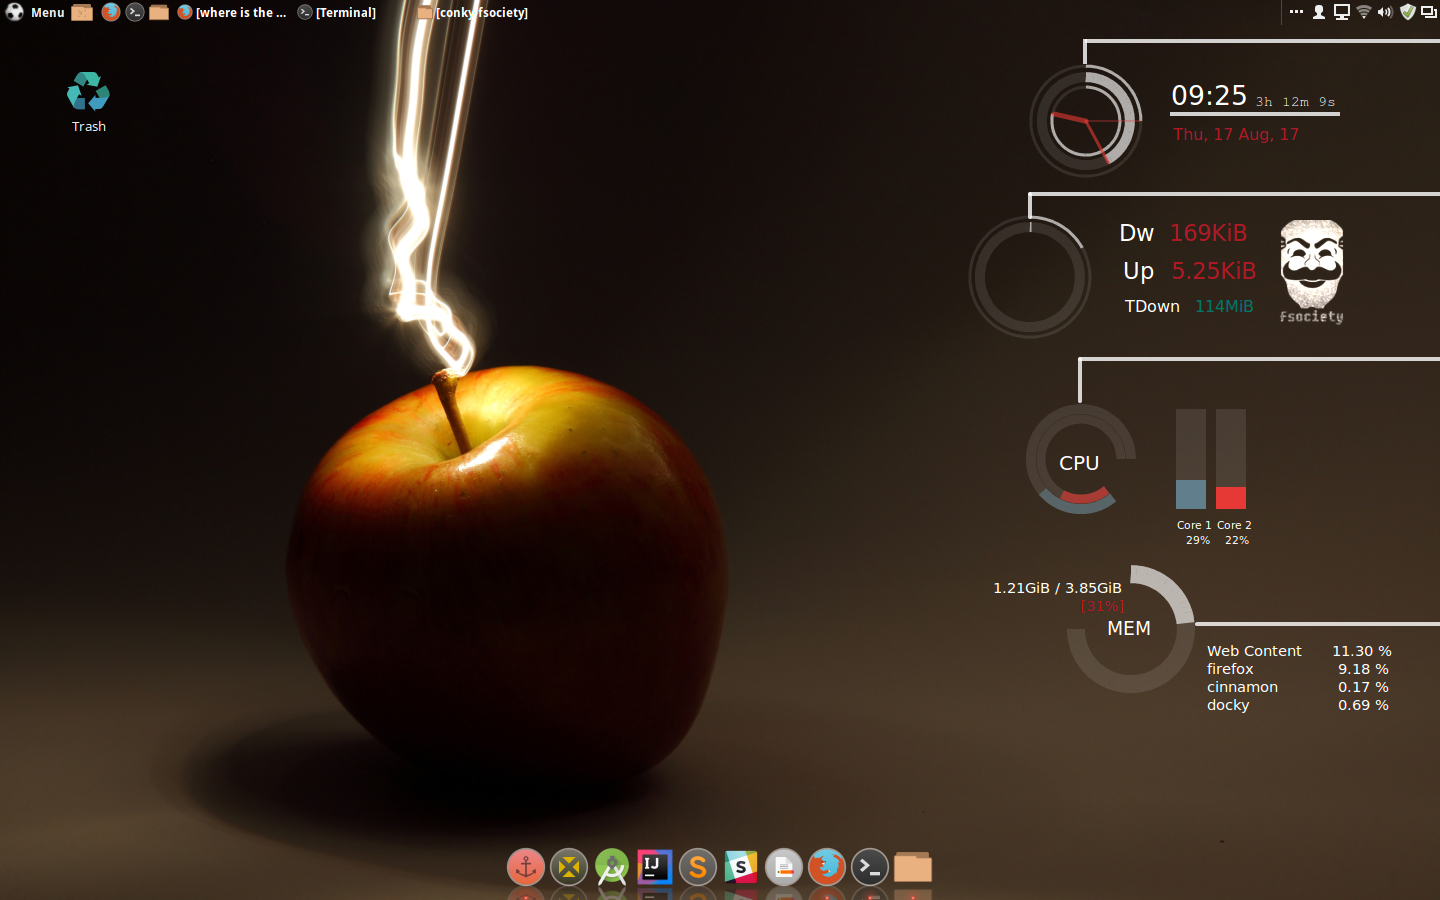
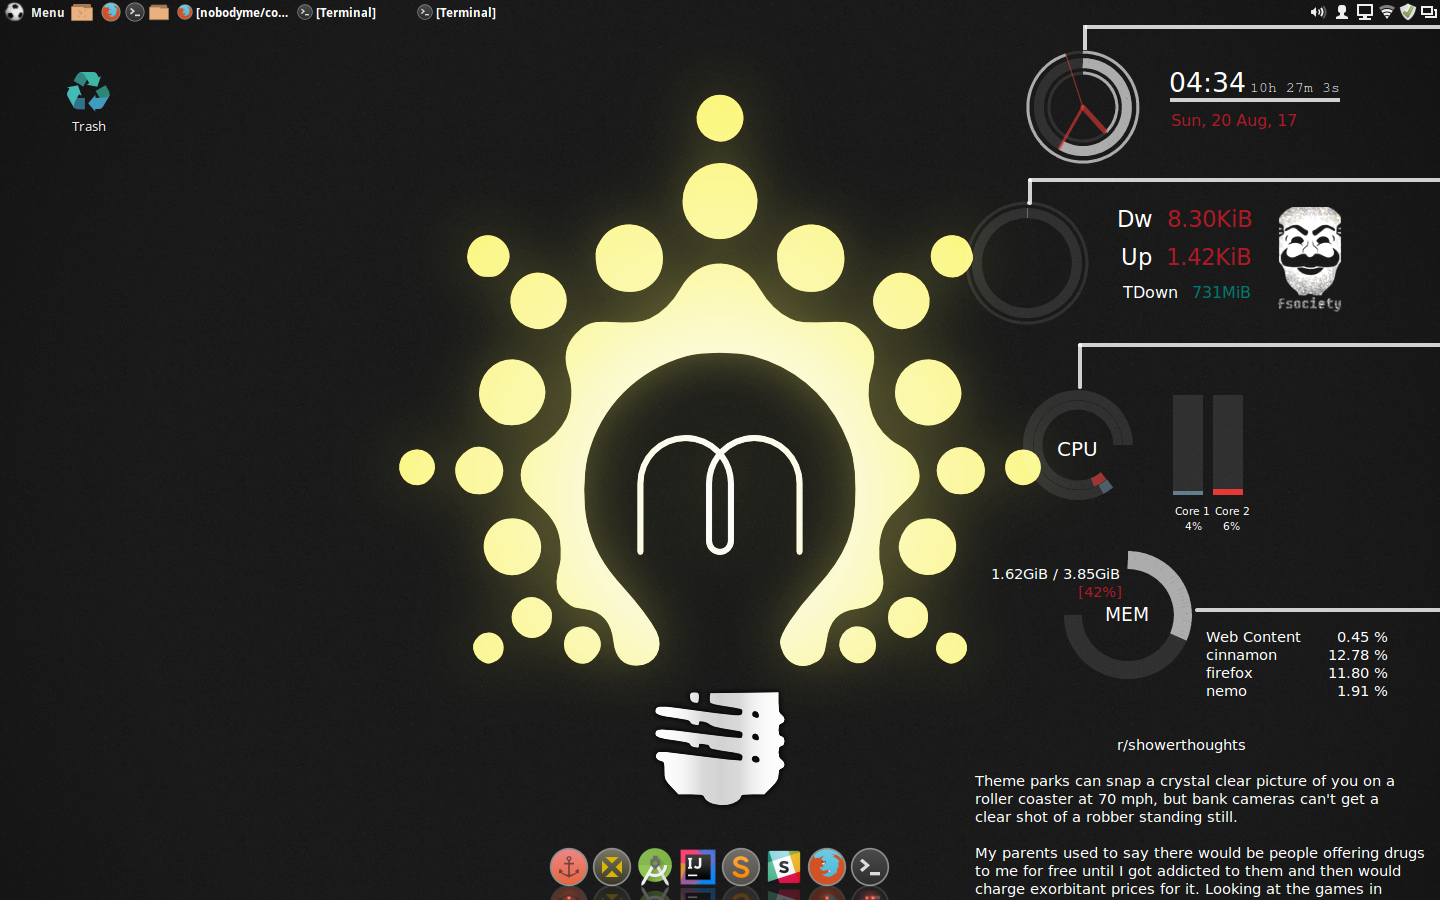
Added reddit post fetch

diff --git a/reddit.py b/reddit.py
@@ -1,0 +1,35 @@
+#!/usr/bin/python3
+
+import argparse
+import sys
+import json
+import requests
+		
+def get_response():
+		
+		url = "https://www.reddit.com/r/" + sys.argv[1] + '/'
+		response = requests.get(url+'.json',headers = {'User-agent':'bot'})
+		
+		if not response.ok:
+			print ("Error ", response.status_code)
+			exit(response.status_code)
+        
+		data = response.json()
+		subtitles = list()
+		for i in range(0,2):
+		 subtitles.append(data['data']['children'][i]['data']['title'])
+		return subtitles
+
+def main():
+
+		output_filehandle = open("posts.txt",
+                             mode = 'w',
+                             encoding = 'utf8')
+		subreddit_titles = get_response()
+		output_text = 'r/'+sys.argv[1]+'\n\n'+'\n\n'.join(subreddit_titles)
+		output_filehandle.write(output_text)
+		output_filehandle.write('\n')
+
+if __name__ == '__main__':
+		main()
+

diff --git a/README.md b/README.md
@@ -4,7 +4,7 @@
 
 [Conky](https://wiki.archlinux.org/index.php/conky)(a light weight system monitoring tool) for desktop
 
-<img src="https://github.com/nobodyme/conky-fsociety/blob/master/screenshot-desktop.png">
+<img src="https://github.com/nobodyme/conky-fsociety/blob/reddit-addition/screenshot-desktop.png">
 
 Tested on cinnamon
 
